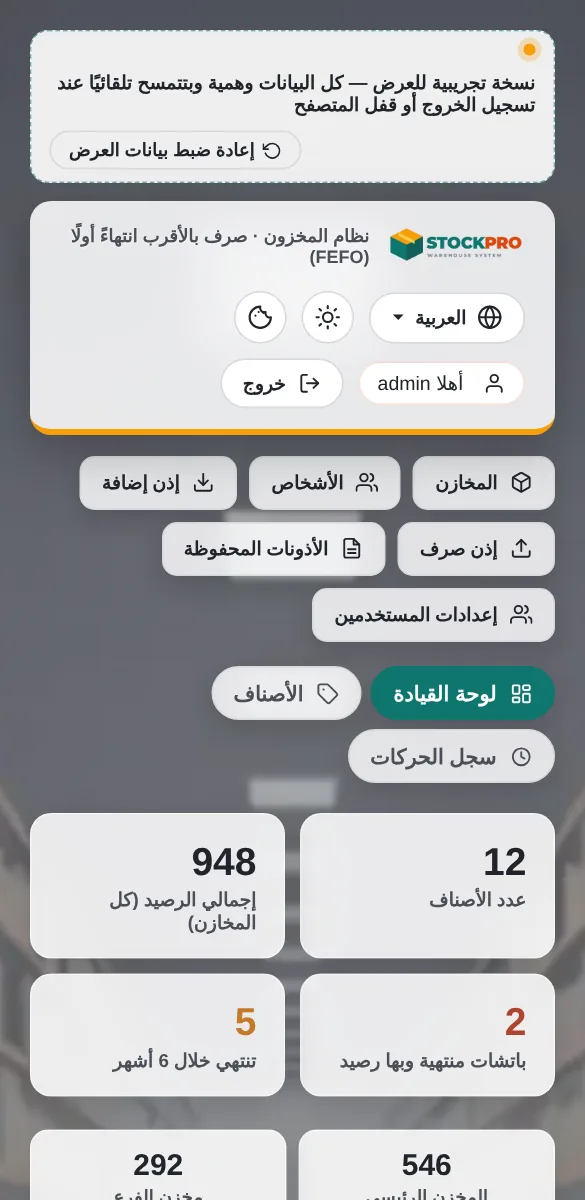
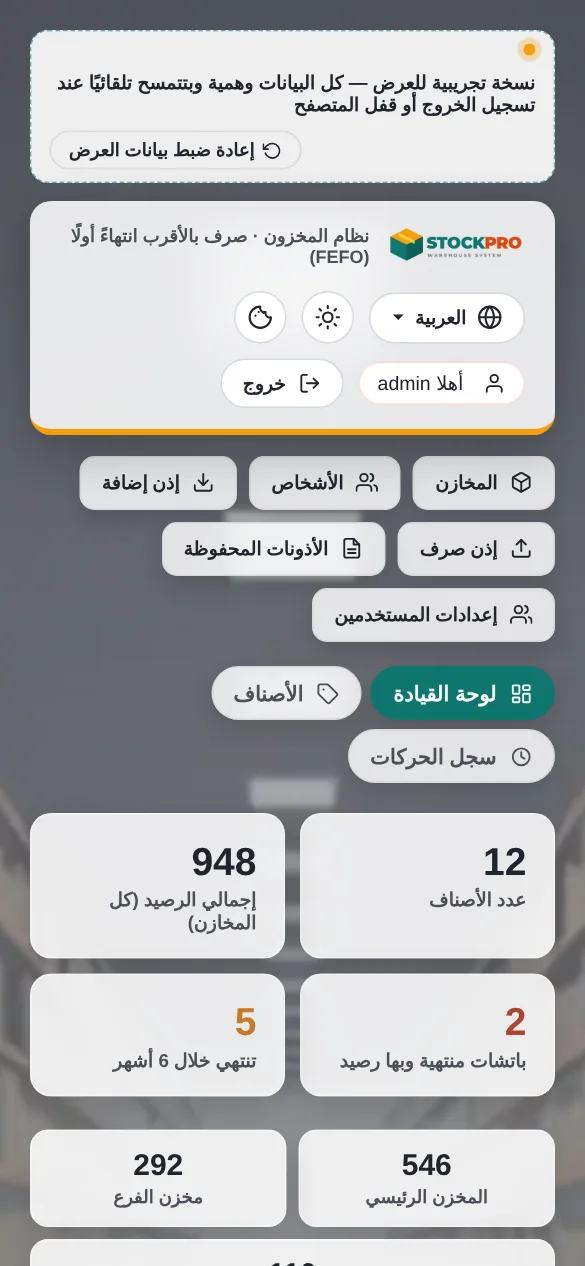
Landing: larger phone mockups filling their frames, new 390x844 phone screenshots, swipe row on small screens
Claude-Session: https://claude.ai/code/session_018N4TR8LqXqE4DvGyRgXBsc

diff --git a/index.html b/index.html
@@ -184,14 +184,20 @@
   .panel .cap li .ico{width:16px;height:16px;color:#5EEAD4;}
 
   /* mobile */
-  .mobile-sec{display:grid;grid-template-columns:1fr 1fr;gap:50px;align-items:center;}
-  @media(max-width:900px){.mobile-sec{grid-template-columns:1fr;}}
-  .phones{display:flex;justify-content:center;gap:14px;}
-  .phone{width:min(190px,31%);border-radius:38px;background:#0F172A;padding:10px;box-shadow:var(--shadow-lg);position:relative;}
+  .mobile-sec{display:grid;grid-template-columns:minmax(0,.85fr) minmax(0,1.75fr);gap:32px;align-items:center;min-height:calc(100svh - 72px);}
+  @media(max-width:900px){.mobile-sec{grid-template-columns:1fr;min-height:0;}}
+  .phones{display:flex;justify-content:center;align-items:flex-start;gap:clamp(8px,1.6vw,22px);}
+  .phone{width:min(300px,32%,calc((100svh - 190px) * .46));border-radius:38px;background:#0F172A;padding:10px;box-shadow:var(--shadow-lg);position:relative;}
   .phone::before{content:"";position:absolute;top:18px;left:50%;transform:translateX(-50%);width:70px;height:18px;border-radius:12px;background:#0F172A;z-index:2;}
-  .phone img{border-radius:29px;width:100%;}
-  .phone:nth-child(2){margin-top:48px;}
-  @media(max-width:520px){.phones{gap:8px;} .phone{width:31%;padding:6px;border-radius:24px;} .phone:nth-child(2){margin-top:30px;}}
+  .phone img{display:block;border-radius:29px;width:100%;height:auto;}
+  .phone:nth-child(2){margin-top:clamp(20px,4vh,48px);}
+  @media(max-width:700px){
+    .phones{justify-content:flex-start;overflow-x:auto;scroll-snap-type:x mandatory;gap:14px;padding:6px 4px 24px;margin:0 -22px;padding-inline:22px;-webkit-overflow-scrolling:touch;scrollbar-width:none;}
+    .phones::-webkit-scrollbar{display:none;}
+    .phone{flex:none;width:min(250px,66vw,calc((100svh - 170px) * .46));scroll-snap-align:center;padding:8px;border-radius:32px;}
+    .phone img{border-radius:25px;}
+    .phone:nth-child(2){margin-top:0;}
+  }
   .check-list{list-style:none;padding:0;margin:22px 0 0;display:grid;gap:12px;}
   .check-list li{display:flex;gap:12px;align-items:flex-start;}
   .check-list .ci{width:28px;height:28px;border-radius:8px;background:var(--teal-soft);color:var(--teal);display:grid;place-items:center;flex:none;margin-top:2px;}
@@ -481,9 +487,9 @@
       </ul>
     </div>
     <div class="phones rv">
-      <div class="phone"><img src="img-mobile_dash.webp" alt="لوحة القيادة على الموبايل" width="585" height="1200" loading="lazy"></div>
-      <div class="phone"><img src="img-mobile_items.webp" alt="الأصناف على الموبايل" width="585" height="1200" loading="lazy"></div>
-      <div class="phone"><img src="img-mobile_note.webp" alt="إذن صرف على الموبايل" width="585" height="1200" loading="lazy"></div>
+      <div class="phone"><img src="img-mobile_dash.webp" alt="لوحة القيادة على الموبايل" width="585" height="1266" loading="lazy"></div>
+      <div class="phone"><img src="img-mobile_items.webp" alt="الأصناف على الموبايل" width="585" height="1266" loading="lazy"></div>
+      <div class="phone"><img src="img-mobile_note.webp" alt="إذن صرف على الموبايل" width="585" height="1266" loading="lazy"></div>
     </div>
   </div>
 </section>
